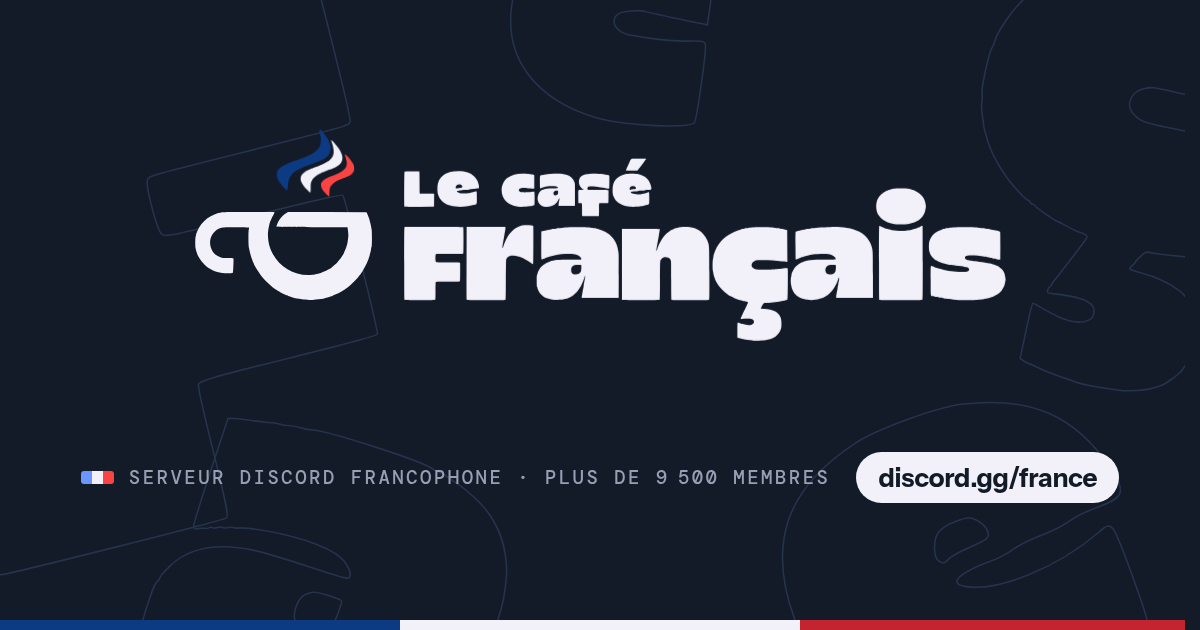
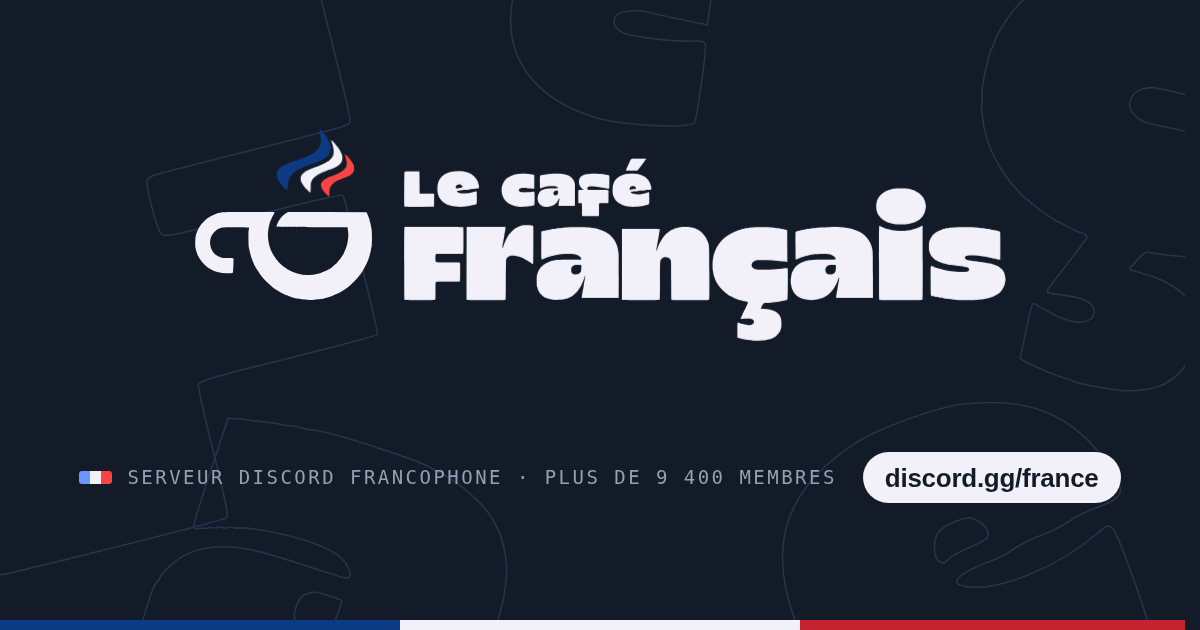
Nombre de membres mis à jour

diff --git a/index.html b/index.html
@@ -9,7 +9,7 @@
 <meta property="og:site_name" content="Le Café Français">
 <meta property="og:locale" content="fr_FR">
 <meta property="og:title" content="Le Café Français">
-<meta property="og:description" content="Serveur Discord communautaire francophone : discussions, jeux, salons vocaux et événements. Rejoins plus de 9 500 membres sur discord.gg/france.">
+<meta property="og:description" content="Serveur Discord communautaire francophone : discussions, jeux, salons vocaux et événements. Rejoins plus de 9 400 membres sur discord.gg/france.">
 <meta property="og:url" content="https://cafe-fr.com/">
 <meta property="og:image" content="https://cafe-fr.com/apercu.png">
 <meta property="og:image:width" content="1200">
@@ -2287,7 +2287,7 @@ html[data-page]:not([data-page="accueil"]) .suite { display: block; padding-bloc
       <a class="btn btn-ligne" href="#carte">Faire le tour</a>
     </div>
     <ul class="chiffres hero-revele">
-      <li><b id="nb-membres" data-valeur="9503">9&#8239;503</b><span>membres</span></li>
+      <li><b id="nb-membres" data-valeur="9496">9&#8239;496</b><span>membres</span></li>
       <li class="vivant" id="stat-ligne" hidden><b><span class="pastille" aria-hidden="true"></span><span id="en-ligne">0</span></b><span>en ligne</span></li>
       <li><b id="nb-salons"><span class="seulement-halloween">34</span><span class="hors-halloween">32</span></b><span>salons</span></li>
       <li><b>6</b><span>salons vocaux</span></li>
@@ -3009,7 +3009,7 @@ html[data-page]:not([data-page="accueil"]) .suite { display: block; padding-bloc
       </div>
       <div class="zinc" aria-hidden="true"></div>
       <h2 class="h-final" id="t-final">Ton café est servi.</h2>
-      <p class="chapo"><span id="nb-final">9&#8239;503</span> membres t'attendent déjà au comptoir.</p>
+      <p class="chapo"><span id="nb-final">9&#8239;496</span> membres t'attendent déjà au comptoir.</p>
       <div class="final-actions">
         <a class="btn btn-plein aimant" href="https://discord.gg/france" target="_blank" rel="noopener">Rejoindre Le Café Français<svg aria-hidden="true"><use href="#i-fleche"/></svg></a>
         <div class="invitation">
